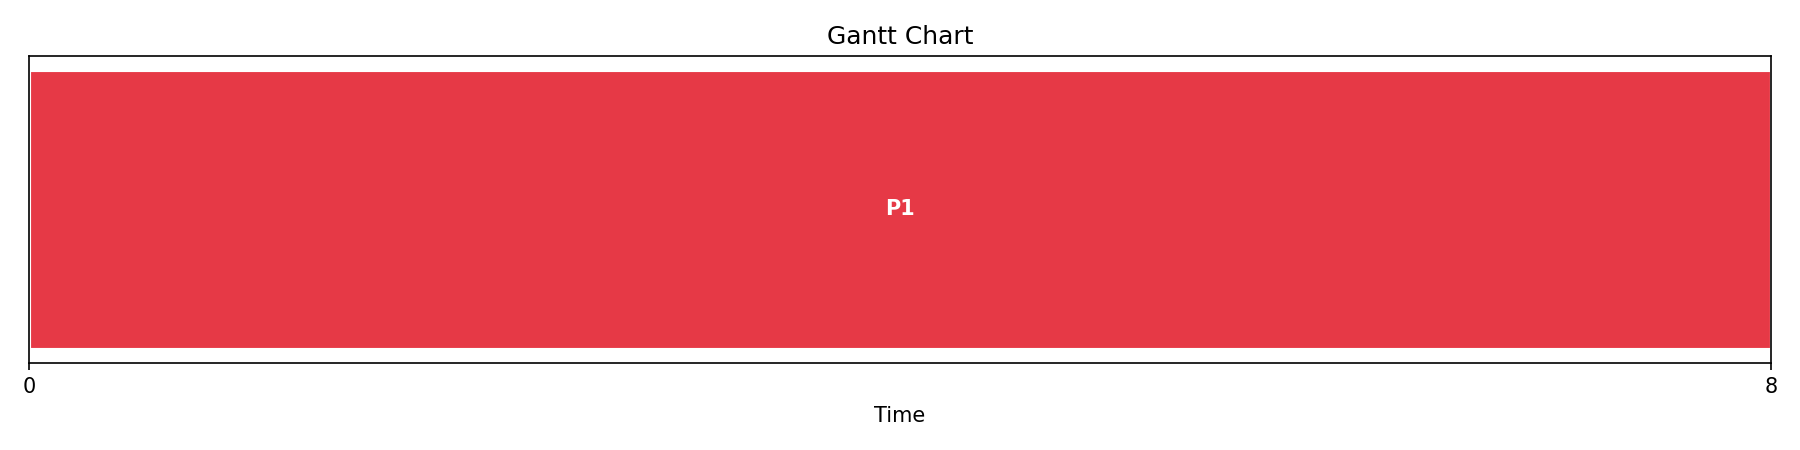
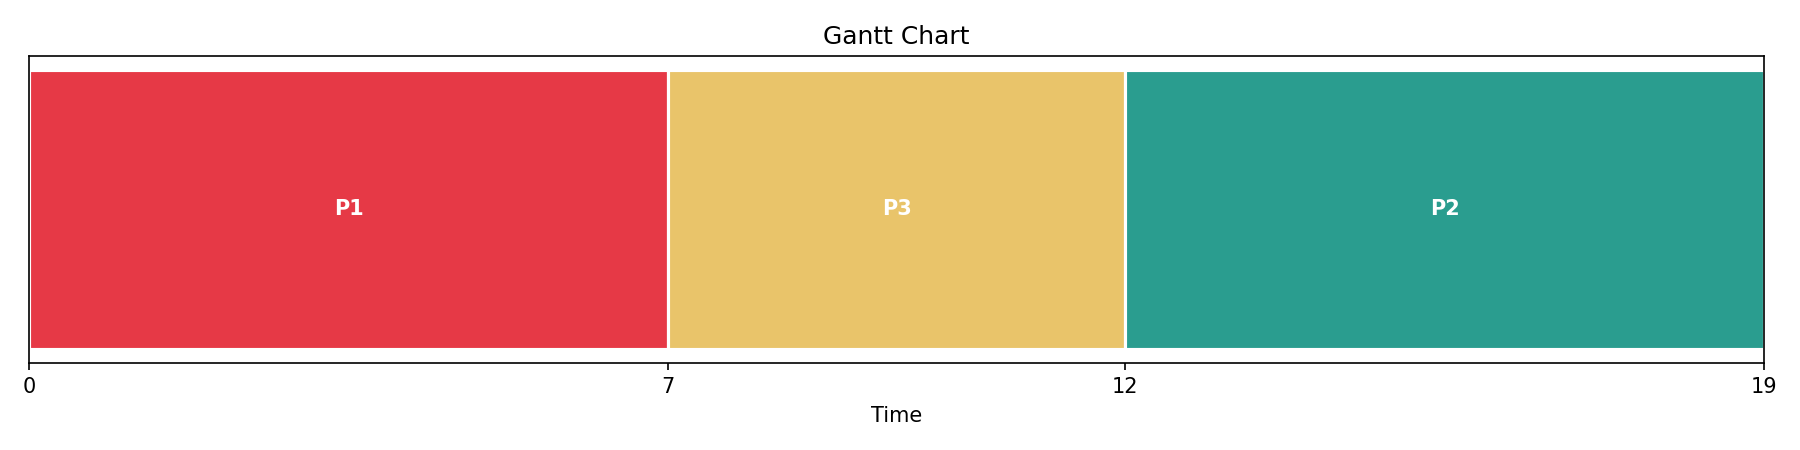
fixing burst time 0 issue

diff --git a/schedulers_simulator/main.py b/schedulers_simulator/main.py
@@ -26,6 +26,13 @@ def get_valid_number(prompt):
         except ValueError:
             print("Error: That is not a valid number. Please try again.")
 
+def get_positive_number(prompt):
+    while True:
+        value = get_valid_number(prompt)
+        if(value > 0):
+            return value
+        print("Please enter a positive number")
+
 def get_processes(selected_algo: str, processes_list: list[Process]):
     number_of_processes = 0
     while (not number_of_processes > 0):
@@ -36,7 +43,7 @@ def get_processes(selected_algo: str, processes_list: list[Process]):
     i = 1
     while i <= number_of_processes:
         arrival_time = get_valid_number((f"Enter the arrival time of P{i}: "))
-        burst_time = get_valid_number((f"Enter the burst time of P{i}: "))
+        burst_time =   get_positive_number((f"Enter the burst time of P{i}: "))
         priority = None
 
         if "Priority" in selected_algo:
@@ -107,7 +114,7 @@ def pause_event_handler(selected_algo: str, processes_list: list[Process], new_p
 
                     print("please note the arrival time will be considered from this second")
                     arrival_time = get_valid_number((f"Enter the arrival time: "))
-                    burst_time = get_valid_number((f"Enter the burst time: "))
+                    burst_time   = get_positive_number((f"Enter the burst time: "))
                     priority = None
 
                     if "Priority" in selected_algo: